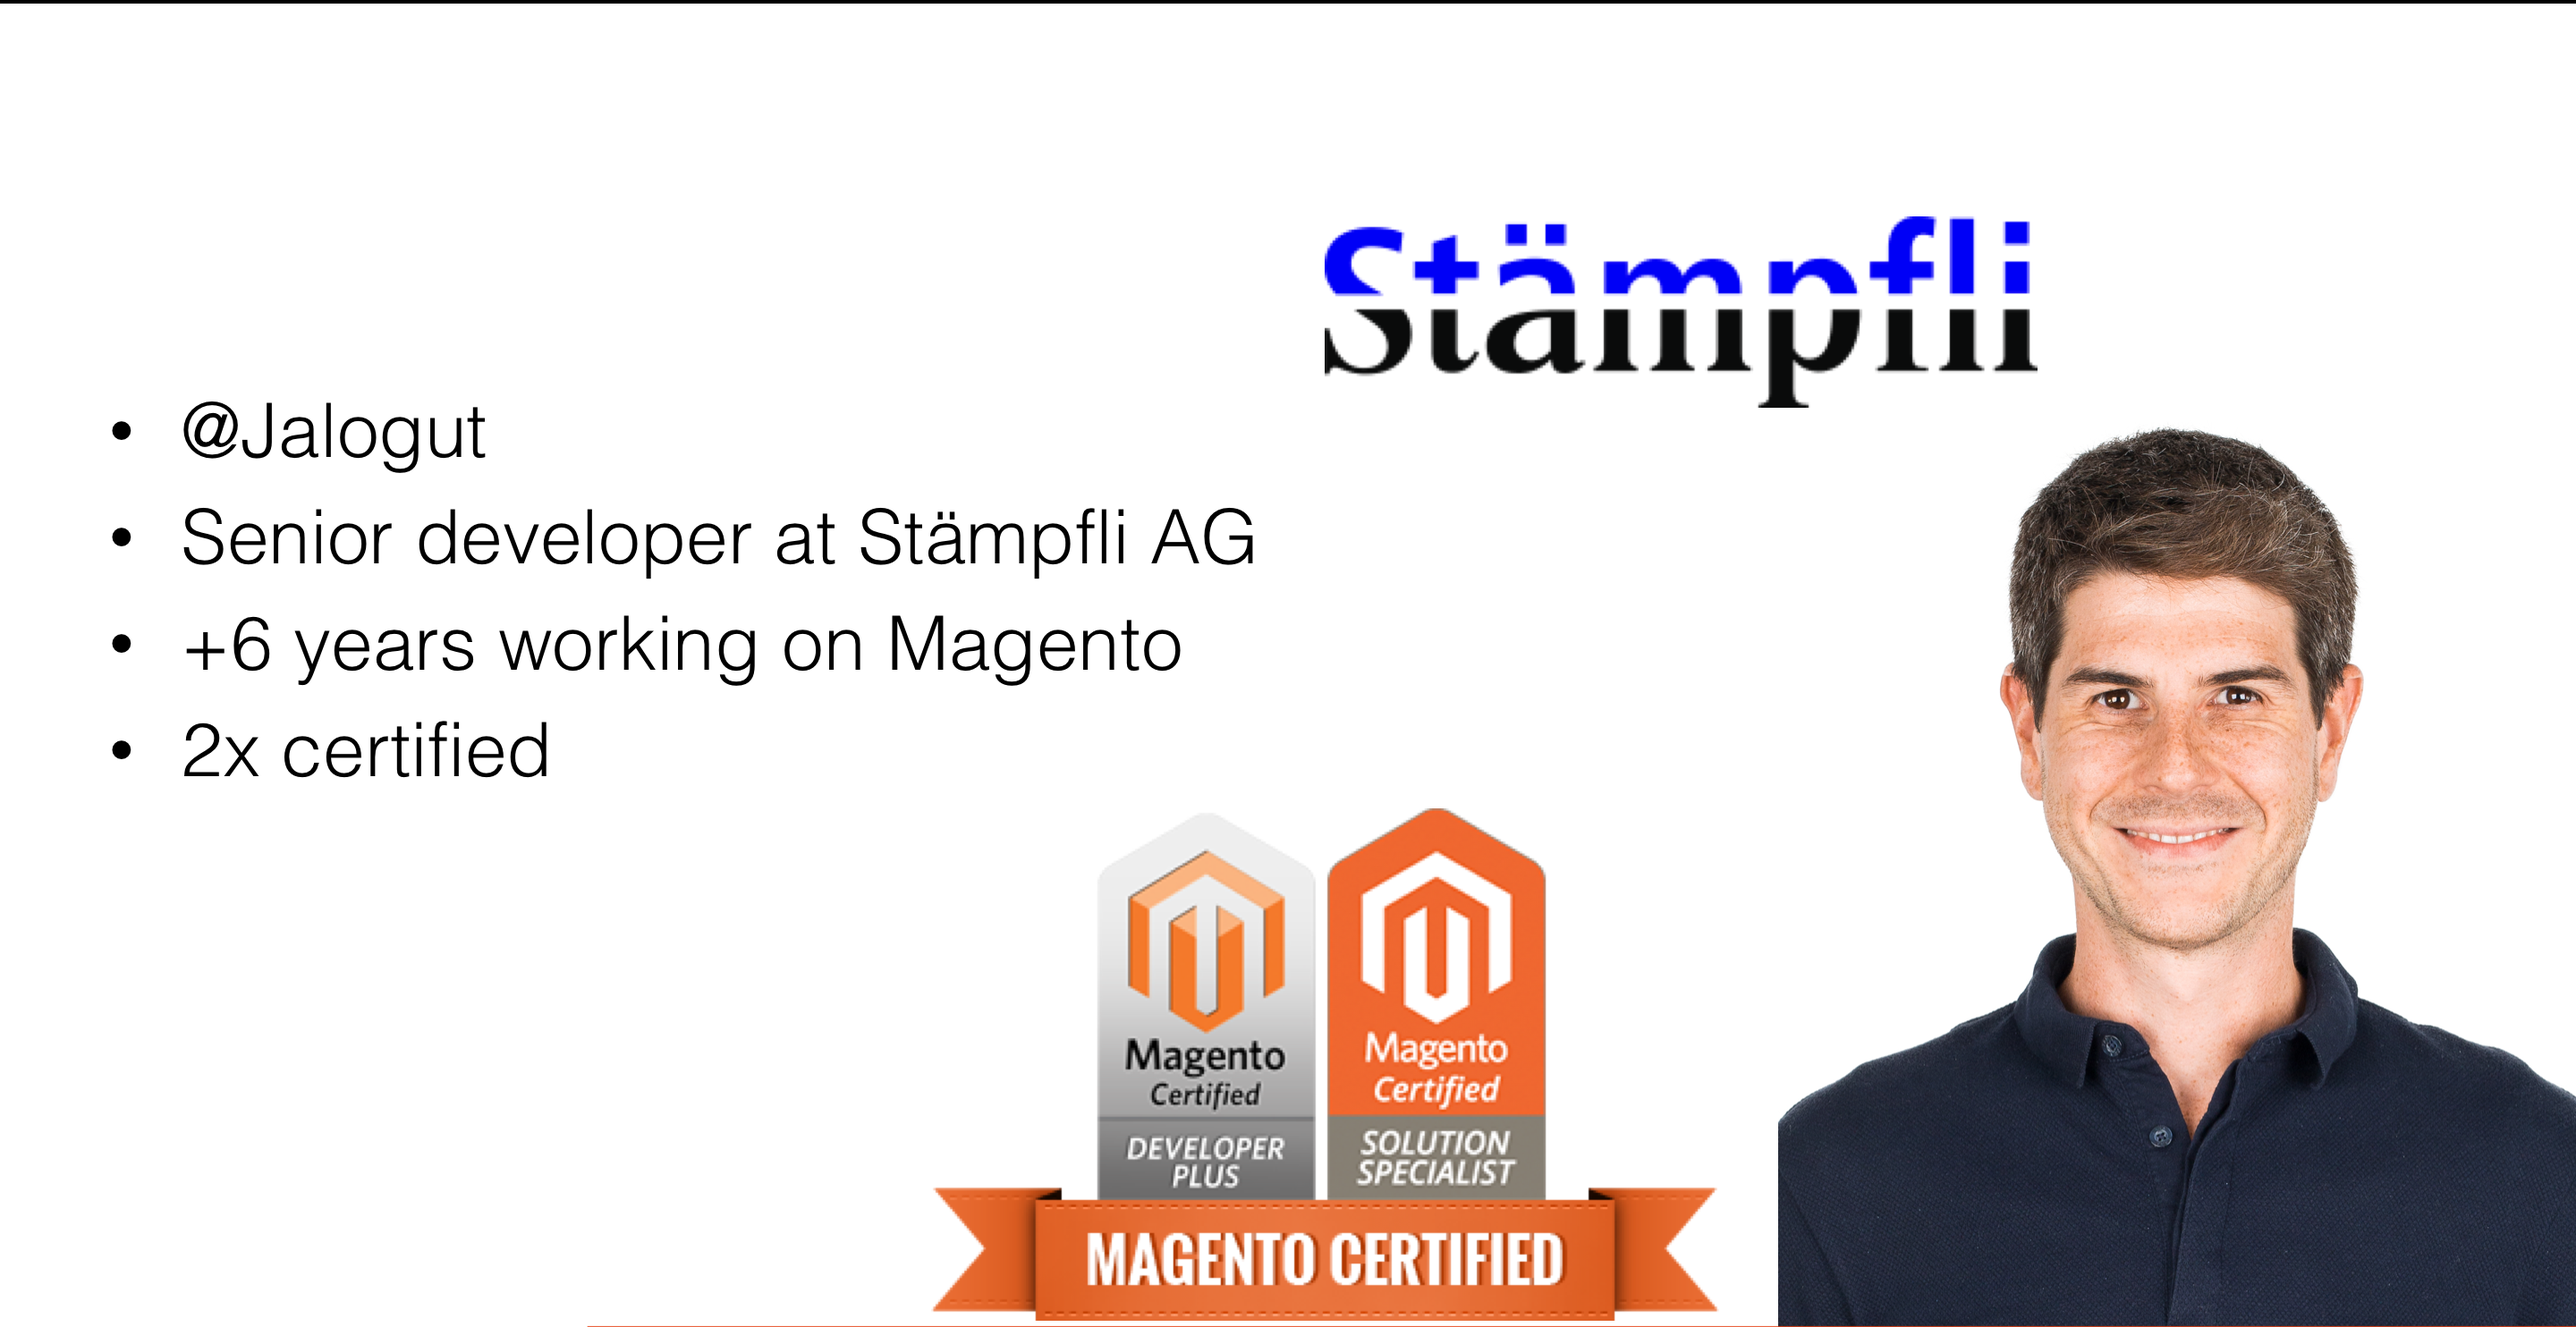
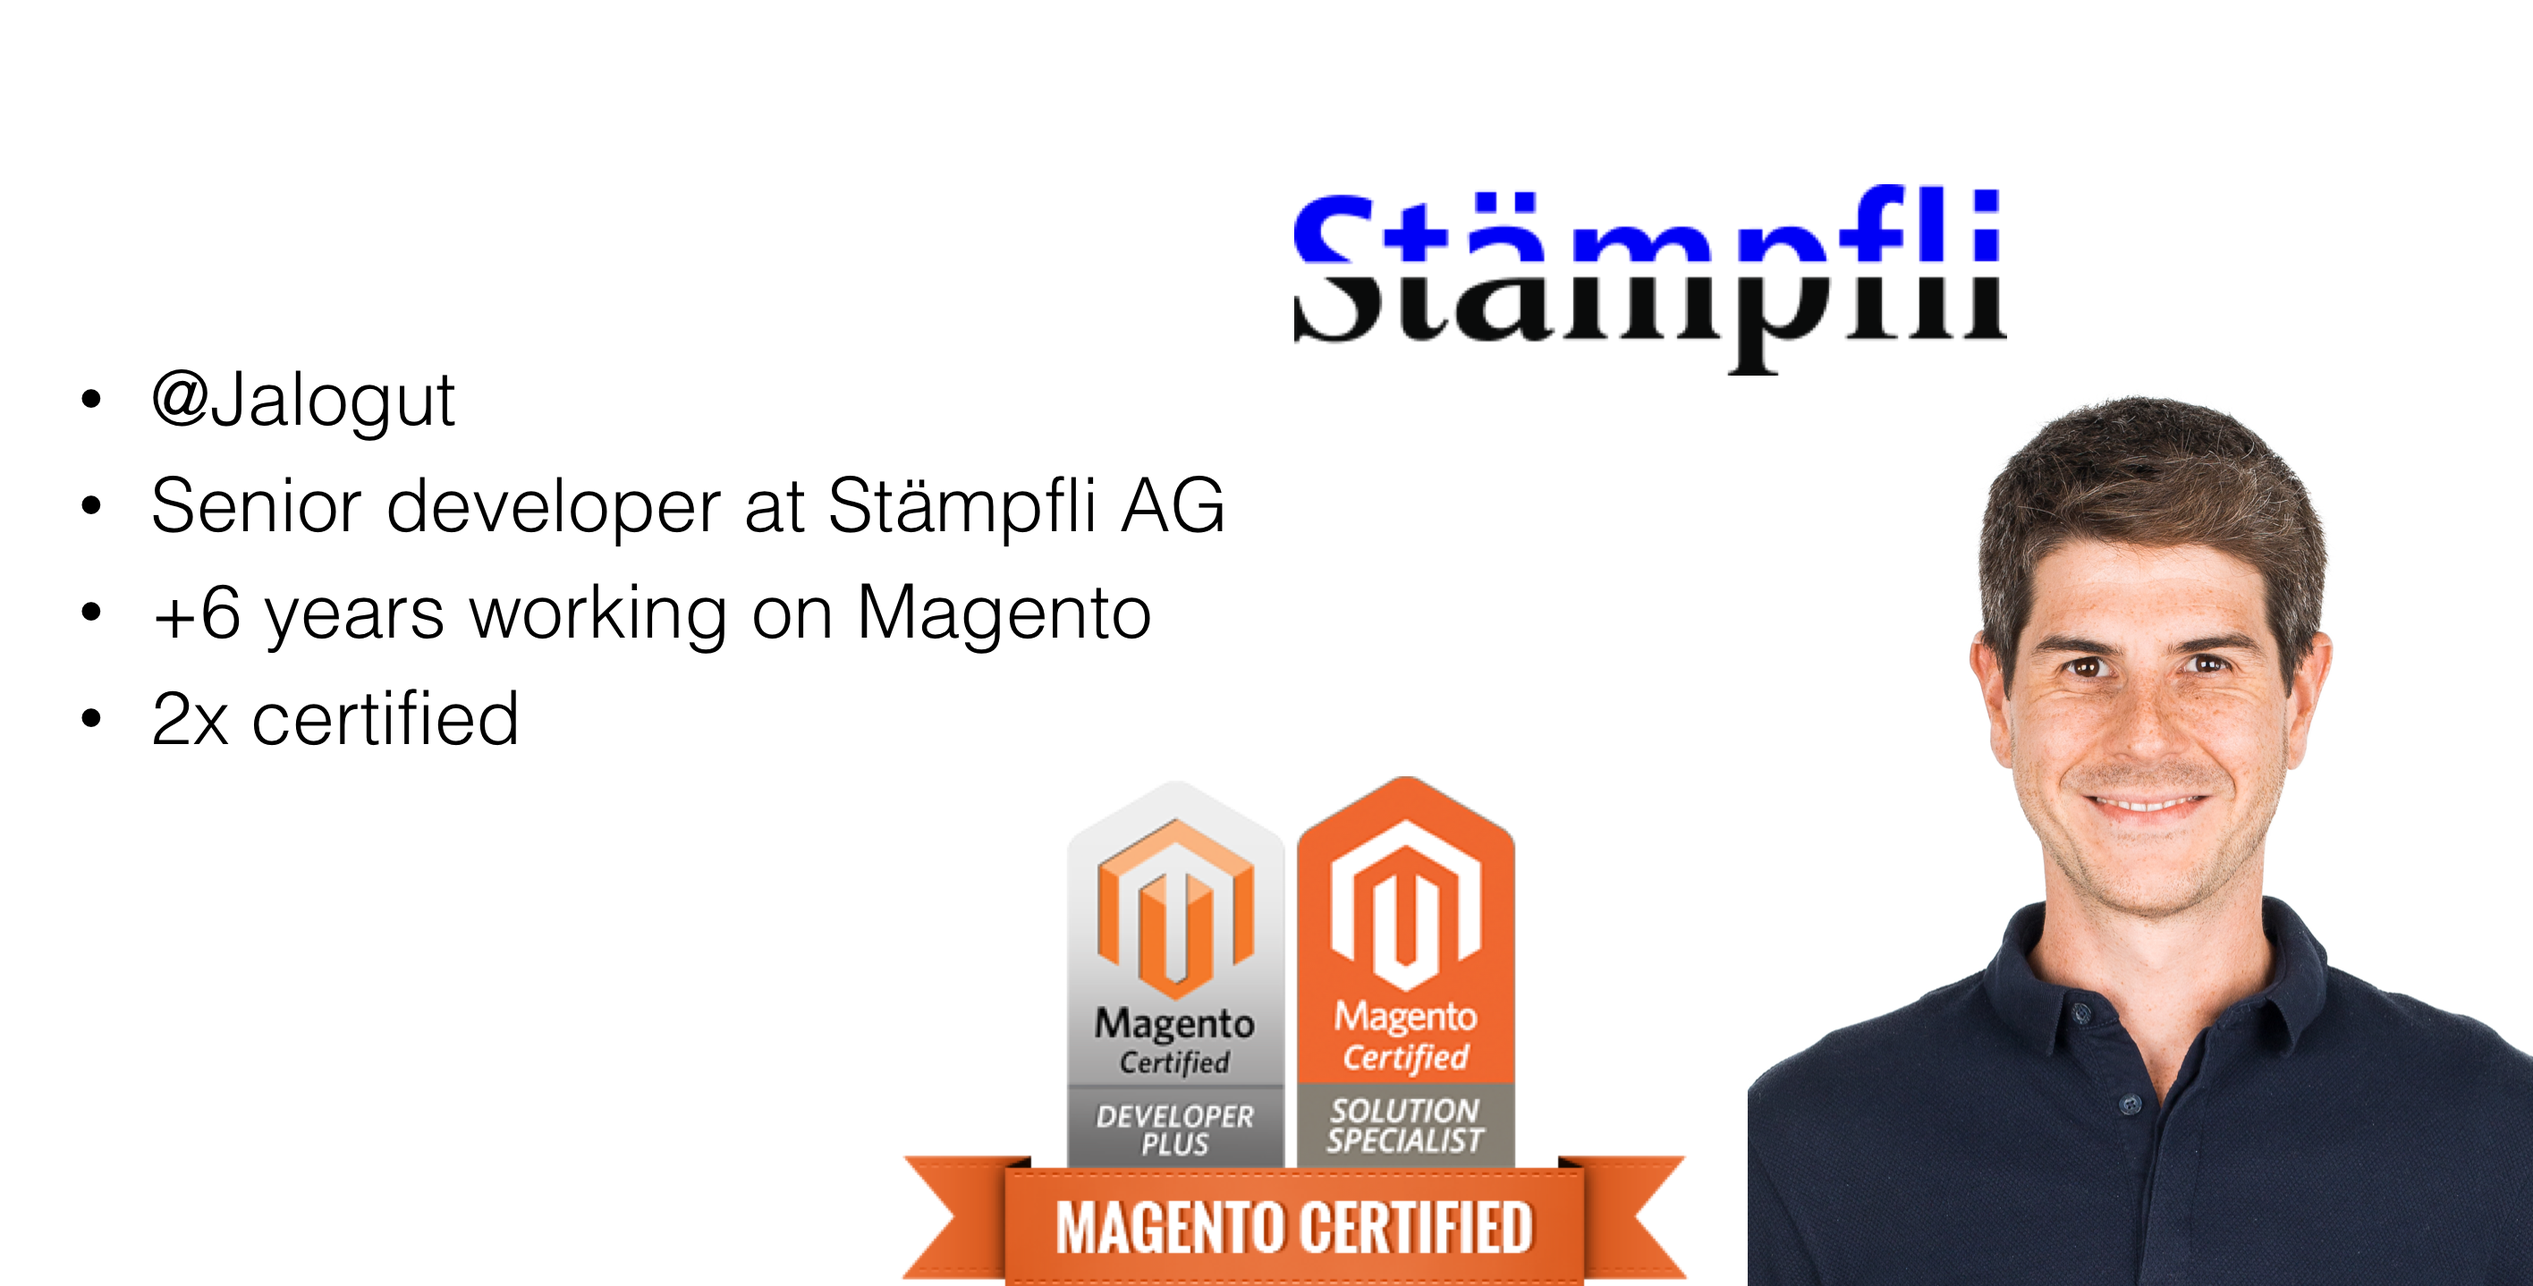
About me image not as normal image

diff --git a/PITCHME.md b/PITCHME.md
@@ -2,8 +2,13 @@
 ## Fully automated zero downtime
 ##### <span style="font-family:Helvetica Neue; font-weight:bold">deployments in <span style="color:#f46f25">Magento 2.2</span></span>
 
+<!--
 ---?image=assets/img/about-me.png
+-->
+---
 @title[About me]
+
+![About me](assets/img/about-me.png)
 
 ---
 @title[Agenda 0]
